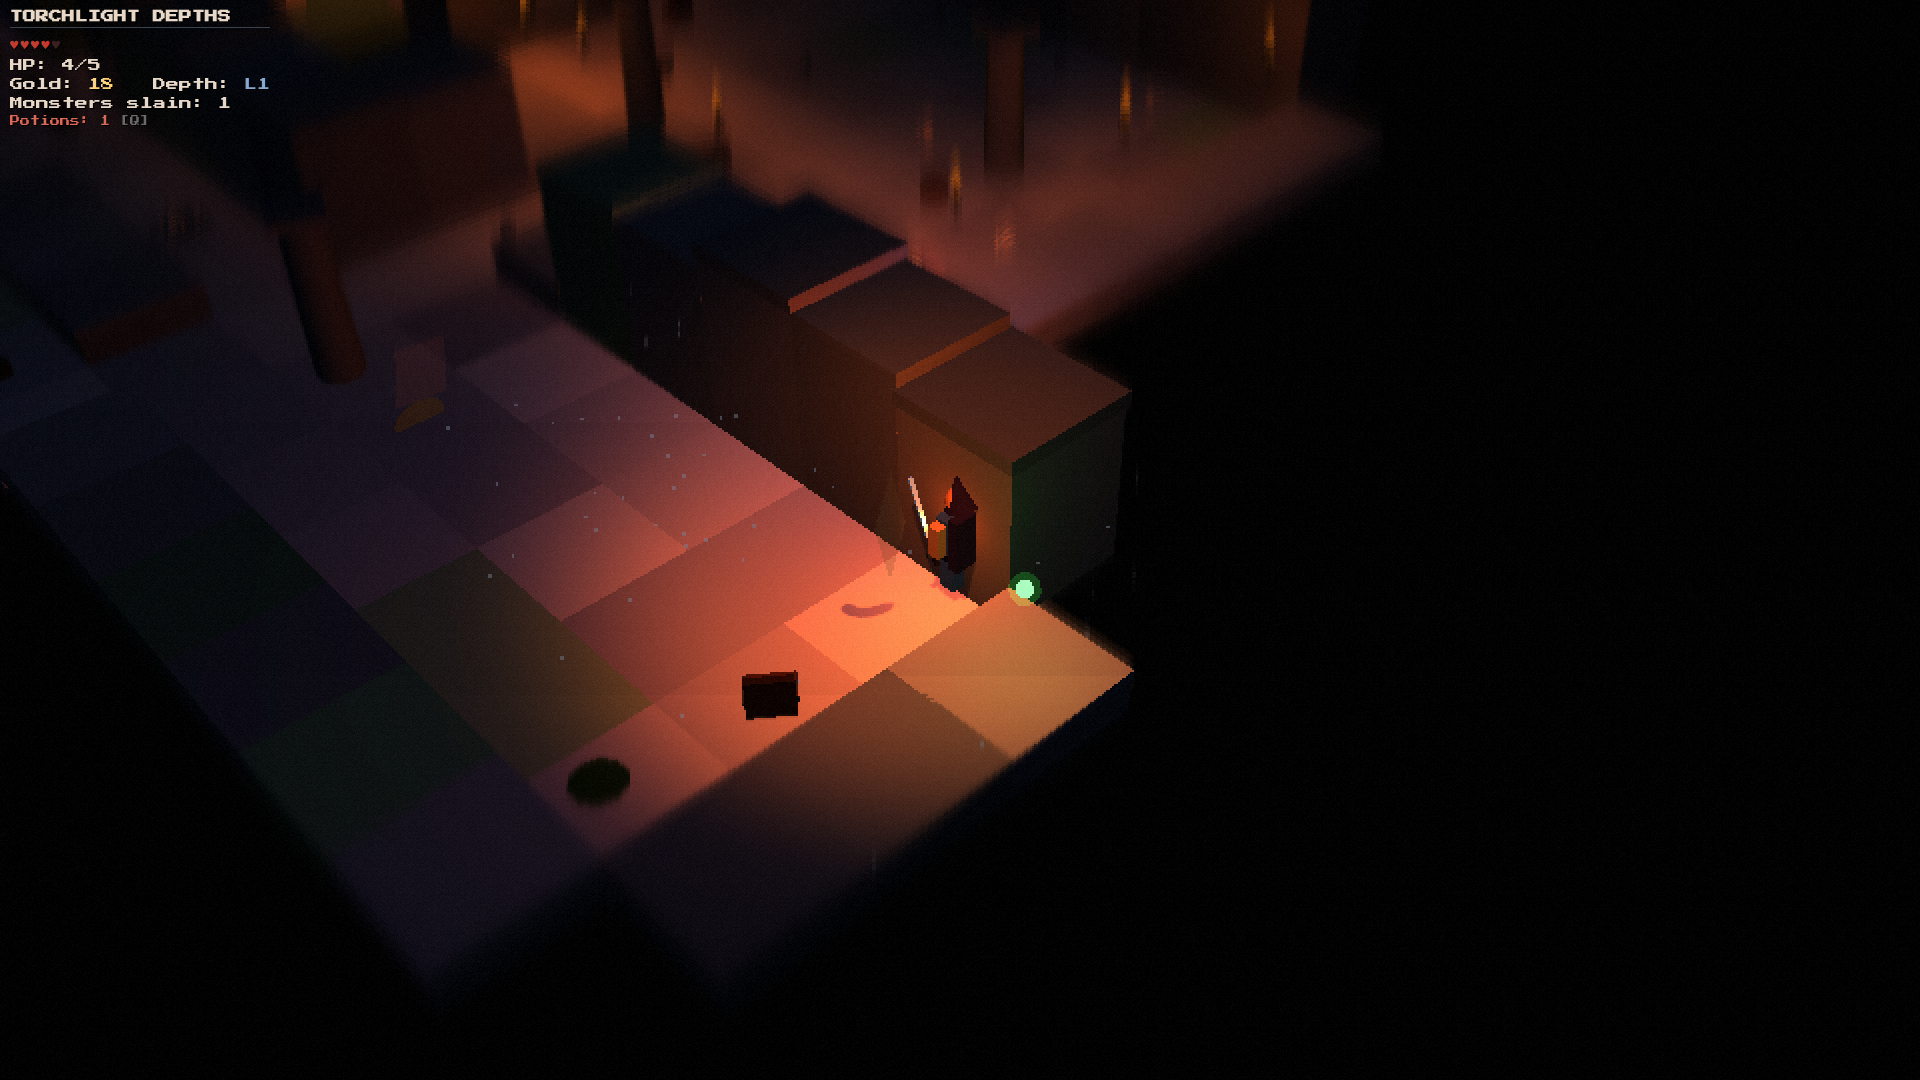
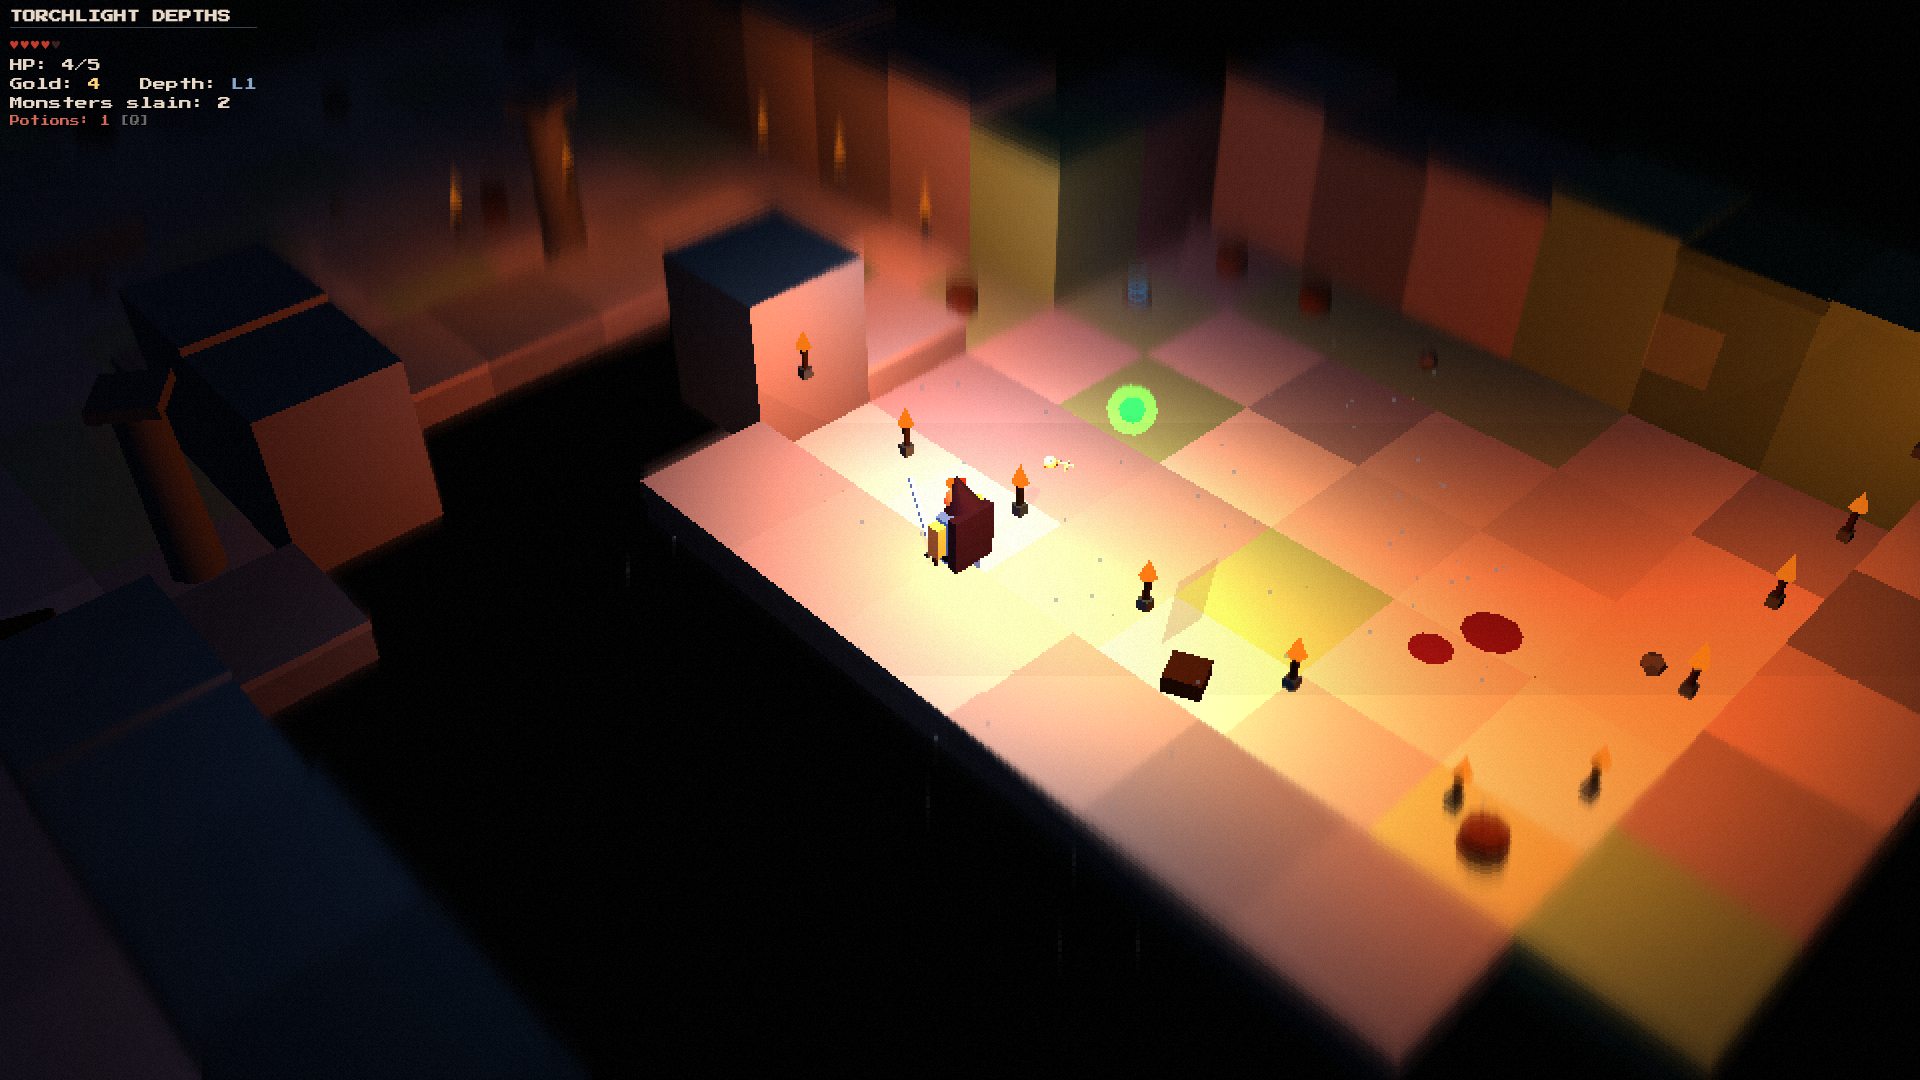
Visual proof pass: plainly visible rim/wisp/hostile-glow + entity-anchored pixel gates
- Hero: cool rim light tightened (0x9fd6ff, 4.2/9.5/1.4 edge-only) plus a NEW
  camera-side cool fill light (0x8fd2ff, 3.4/10/1.3) and a steady cool steel-blue
  armor emissive (0x6486bd) so the hero reads lit against the warm floor instead
  of a dark silhouette; central torch spot softened 2.6 -> 2.1 to cut blowout
- Wisp: bigger/brighter (core 0x15 sphere 0x7dffa0, shell r0.29 op0.55 0x3cff66,
  light 0x40ff70 3.4/8.0/1.5), hover raised above back-wall height (y 3.3) and
  moved screen-right of the hero so walls no longer occlude or color-wash it
- Hostiles: per-color GLOW_STYLES table (tintable) with stronger red halo
  (op 0.55, scale 1.38, light 3.4/9.0) PLUS a new normal-blend faction RING on
  the floor that reads hue-true red even over the warm torch pool; yellow stays
  subtle (0.18); ring+halo rescale/op retint on yellow->red state flip
- verify.mjs: pixel gates tightened AND anchored to entity screen positions -
  strict red (r-g>=75, g<140) within 70px of each hostile monster screen pos,
  strict green at the wisp's own projected position (whole-frame fallback made
  diagnostic-only), NEW cool-rim gate (b>=115, b-r>=35) within 170px of hero
  screen pos (31 gates, all green twice); hostile-proof frame capture inlined
  into the drive loop with candidate rotation + sidestep recovery so random
  dungeons can never stall the proof; screenshot convention files refreshed

diff --git a/index.html b/index.html
@@ -86,7 +86,7 @@ scene.add(moontLight);
 const torchLight = new THREE.PointLight(0xff8438, 3.4, 19, 1.4);
 scene.add(torchLight);
 
-const torchSpot = new THREE.SpotLight(0xff9c4c, 2.6, 32, 0.82, 0.55, 1.25);
+const torchSpot = new THREE.SpotLight(0xff9c4c, 2.1, 32, 0.82, 0.55, 1.25);
 torchSpot.castShadow = true;
 torchSpot.shadow.mapSize.set(1024, 1024);
 torchSpot.shadow.camera.near = 1.5;
@@ -96,10 +96,17 @@ scene.add(torchSpot);
 scene.add(torchSpot.target);
 
 // cool rim/back light opposing the warm torch — keeps the hero from reading as
-// a pure dark silhouette against the bright floor in close-combat framing
-const rimLight = new THREE.PointLight(0x6f86c9, 1.6, 13, 1.7);
+// a pure dark silhouette against the bright floor in close-combat framing.
+// Strong, cool cyan-white: it must visually edge the hero outline on screen.
+const rimLight = new THREE.PointLight(0x9fd6ff, 4.2, 9.5, 1.4);
 rimLight.userData.tlTag = 'rim';
 scene.add(rimLight);
+
+// cool hero FILL from the camera side, high up: the pure back-light rim only
+// grazes silhouette edges, this visibly cool-tints the faces the player sees
+const heroFillLight = new THREE.PointLight(0x8fd2ff, 3.4, 10, 1.3);
+heroFillLight.userData.tlTag = 'rimFill';
+scene.add(heroFillLight);
 
 // ============================== CONSTANTS / HELPERS ==============================
 const TILE = 2.0;
@@ -237,25 +244,63 @@ const emberMat = new THREE.MeshLambertMaterial({
   color: 0x6b2a12, emissive: 0xc24410, emissiveIntensity: 0.9,
 });
 
-// faction aura colors: hostile=red, passive-until-attacked=yellow, ally=green
+// faction aura colors + per-color visibility styles: hostile red must read as
+// RED even in dim torch-warm surroundings; yellow passive stays subtle but is
+// fully tintable through the same style table.
 const GLOW_RED = 0xd8402f, GLOW_YELLOW = 0xd8c23a, GLOW_GREEN = 0x4fce62;
+const GLOW_STYLES = {};
+GLOW_STYLES[GLOW_RED]    = { haloOpacity: 0.55, haloScale: 1.38, ringOpacity: 0.56, lightIntensity: 3.4, lightDistance: 9.0 };
+GLOW_STYLES[GLOW_YELLOW] = { haloOpacity: 0.16, haloScale: 1.0,  ringOpacity: 0.18, lightIntensity: 0.8, lightDistance: 6.5 };
+GLOW_STYLES[GLOW_GREEN]  = { haloOpacity: 0.30, haloScale: 1.0,  ringOpacity: 0.30, lightIntensity: 1.5, lightDistance: 7.0 };
+function applyGlowStyle(group, colorHex) {
+  const st = GLOW_STYLES[colorHex] || GLOW_STYLES[GLOW_YELLOW];
+  if (group.userData.glowHalo) {
+    const halo = group.userData.glowHalo;
+    // pristine scale captured once, so repeated state flips never compound
+    if (halo.userData.baseScale === undefined) halo.userData.baseScale = halo.scale.x;
+    halo.material.opacity = st.haloOpacity;
+    halo.scale.setScalar(halo.userData.baseScale * st.haloScale);
+  }
+  if (group.userData.glowRing) {
+    const ring = group.userData.glowRing;
+    // normal-blend faction ring on the floor: reads hue-true red even over the
+    // warm torch pool (additive blending would collapse red into orange)
+    if (ring.userData.baseScale === undefined) ring.userData.baseScale = ring.scale.x;
+    ring.material.opacity = st.ringOpacity;
+    ring.scale.setScalar(ring.userData.baseScale * st.haloScale);
+  }
+  if (group.userData.glowLight) {
+    group.userData.glowLight.intensity = st.lightIntensity;
+    group.userData.glowLight.distance = st.lightDistance;
+  }
+}
 function addFactionGlow(group, colorHex, y, r) {
+  const st = GLOW_STYLES[colorHex] || GLOW_STYLES[GLOW_YELLOW];
   const halo = new THREE.Mesh(
     new THREE.SphereGeometry(r, 12, 10),
-    new THREE.MeshBasicMaterial({ color: colorHex, transparent: true, opacity: 0.17, blending: THREE.AdditiveBlending, depthWrite: false, side: THREE.BackSide }));
+    new THREE.MeshBasicMaterial({ color: colorHex, transparent: true, opacity: st.haloOpacity, blending: THREE.AdditiveBlending, depthWrite: false, side: THREE.BackSide }));
   halo.position.y = y;
-  const glow = new THREE.PointLight(colorHex, 0.9, 6.5, 2.0);
+  const ring = new THREE.Mesh(
+    new THREE.RingGeometry(r * 1.02, r * 1.5, 26),
+    new THREE.MeshBasicMaterial({ color: colorHex, transparent: true, opacity: st.ringOpacity, blending: THREE.NormalBlending, depthWrite: false, side: THREE.DoubleSide }));
+  ring.rotation.x = -Math.PI / 2;
+  ring.position.y = 0.07;
+  const glow = new THREE.PointLight(colorHex, st.lightIntensity, st.lightDistance, 1.8);
   glow.userData.tlTag = 'faction';
   glow.position.y = y;
-  group.add(halo, glow);
+  group.add(halo, ring, glow);
   group.userData.glowHalo = halo;
+  group.userData.glowRing = ring;
   group.userData.glowLight = glow;
   group.userData.glowColor = colorHex;
+  applyGlowStyle(group, colorHex);
 }
 function setFactionGlow(group, colorHex) {
   if (group.userData.glowHalo) group.userData.glowHalo.material.color.setHex(colorHex);
+  if (group.userData.glowRing) group.userData.glowRing.material.color.setHex(colorHex);
   if (group.userData.glowLight) group.userData.glowLight.color.setHex(colorHex);
   group.userData.glowColor = colorHex;
+  applyGlowStyle(group, colorHex);
 }
 
 // ============================== LEVEL BUILD ==============================
@@ -586,7 +631,7 @@ scene.add(hero.group);
 function buildHero() {
   const g = hero.group;
   const skin = new THREE.MeshLambertMaterial({ color: 0xc79a6b, emissive: 0x5a3a1e });
-  const armor = new THREE.MeshLambertMaterial({ color: 0x5a6068, emissive: 0x2a3648 });
+  const armor = new THREE.MeshLambertMaterial({ color: 0x5a6068, emissive: 0x6486bd });
   const cloak = new THREE.MeshLambertMaterial({ color: 0x4a2a38, emissive: 0x2a1620, side: THREE.DoubleSide });
   hero.legL = new THREE.Mesh(new THREE.BoxGeometry(0.13, 0.34, 0.15), armor); hero.legL.position.set(-0.09, 0.32, 0);
   hero.legR = new THREE.Mesh(new THREE.BoxGeometry(0.13, 0.34, 0.15), armor); hero.legR.position.set(0.09, 0.32, 0);
@@ -638,10 +683,10 @@ buildHero();
 // purely visual friendly spirit hovering beside the hero: gentle bob, soft green light
 const wisp = { group: new THREE.Group(), phase: rnd(0, Math.PI * 2) };
 {
-  const core = new THREE.Mesh(new THREE.SphereGeometry(0.105, 10, 8), new THREE.MeshBasicMaterial({ color: 0xcfffd9 }));
-  const shell = new THREE.Mesh(new THREE.SphereGeometry(0.19, 10, 8), new THREE.MeshBasicMaterial({
-    color: GLOW_GREEN, transparent: true, opacity: 0.32, blending: THREE.AdditiveBlending, depthWrite: false }));
-  wisp.light = new THREE.PointLight(0x5fd874, 1.15, 5.5, 2.0);
+  const core = new THREE.Mesh(new THREE.SphereGeometry(0.15, 10, 8), new THREE.MeshBasicMaterial({ color: 0x7dffa0 }));
+  const shell = new THREE.Mesh(new THREE.SphereGeometry(0.29, 10, 8), new THREE.MeshBasicMaterial({
+    color: 0x3cff66, transparent: true, opacity: 0.55, blending: THREE.AdditiveBlending, depthWrite: false }));
+  wisp.light = new THREE.PointLight(0x40ff70, 3.4, 8.0, 1.5);
   wisp.light.userData.tlTag = 'wisp';
   wisp.group.add(core, shell, wisp.light);
   scene.add(wisp.group);
@@ -1467,6 +1512,12 @@ window.__tl = {
     _projV.project(camera);
     return { sx: (_projV.x * 0.5 + 0.5) * window.innerWidth, sy: (-_projV.y * 0.5 + 0.5) * window.innerHeight };
   },
+  // screen position of the hero (torso center, CSS pixels)
+  heroScreen: () => {
+    _projV.set(hero.group.position.x, hero.group.position.y + 0.9, hero.group.position.z);
+    _projV.project(camera);
+    return { sx: (_projV.x * 0.5 + 0.5) * window.innerWidth, sy: (-_projV.y * 0.5 + 0.5) * window.innerHeight };
+  },
 };
 
 // ============================== MAIN LOOP ==============================
@@ -1605,15 +1656,20 @@ function animate() {
   torchLight.position.set(hero.group.position.x, 1.25, hero.group.position.z + 0.25);
   torchSpot.position.set(hero.group.position.x + 1.5, 6.5, hero.group.position.z + 2.5);
   torchSpot.target.position.copy(hero.group.position);
-  torchSpot.intensity = 2.35 + Math.sin(t * 9.1) * 0.18;
+  torchSpot.intensity = 2.0 + Math.sin(t * 9.1) * 0.16;
   // rim light tracks the hero from the far side, opposing the torch
-  rimLight.position.set(hero.group.position.x - 2.4, 2.7, hero.group.position.z - 2.4);
-  rimLight.intensity = 1.5 + Math.sin(t * 7.3) * 0.12;
-  // wisp companion: hovers beside the hero with a gentle bob (purely visual)
+  rimLight.position.set(hero.group.position.x - 2.1, 3.1, hero.group.position.z - 2.1);
+  rimLight.intensity = 3.2 + Math.sin(t * 7.3) * 0.26;
+  // cool fill rides high on the camera-visible side so the hero's front faces
+  // read cool-blue against the warm floor instead of a dark silhouette
+  heroFillLight.position.set(hero.group.position.x + 2.4, 4.6, hero.group.position.z + 2.4);
+  heroFillLight.intensity = 3.2 + Math.sin(t * 6.7) * 0.22;
+  // wisp companion: hovers beside the hero, offset toward screen-right (never
+  // between hero and camera, where it would overlap and get color-washed)
   const wb = Math.sin(t * 1.9 + wisp.phase) * 0.13;
-  _wispTarget.set(hero.group.position.x + 1.7, 1.85 + wb, hero.group.position.z + 0.9);
+  _wispTarget.set(hero.group.position.x + 1.35, 3.3 + wb, hero.group.position.z - 1.0);
   wisp.group.position.lerp(_wispTarget, 1 - Math.exp(-5 * dt));
-  wisp.light.intensity = 1.0 + Math.sin(t * 3.1 + wisp.phase) * 0.2;
+  wisp.light.intensity = 3.0 + Math.sin(t * 3.1 + wisp.phase) * 0.55;
   if (hero.torchFlameMesh) hero.torchFlameMesh.scale.setScalar(0.85 + Math.sin(t * 13) * 0.15 + Math.cos(t * 29) * 0.06);
   hero.flash = Math.max(0, hero.flash - dt);
   hero.hurtTimer = Math.max(0, hero.hurtTimer - dt);
